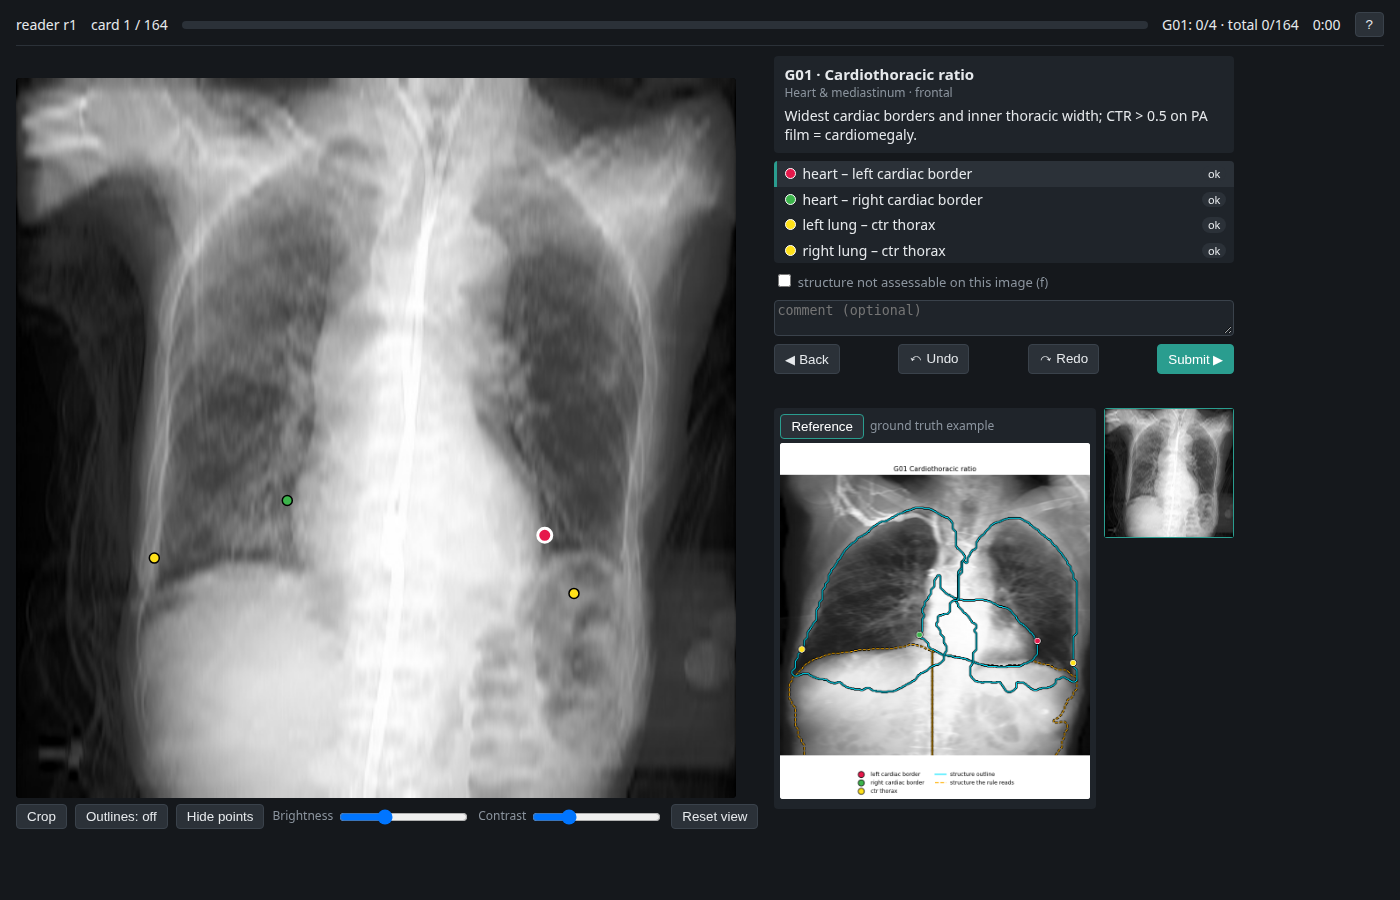
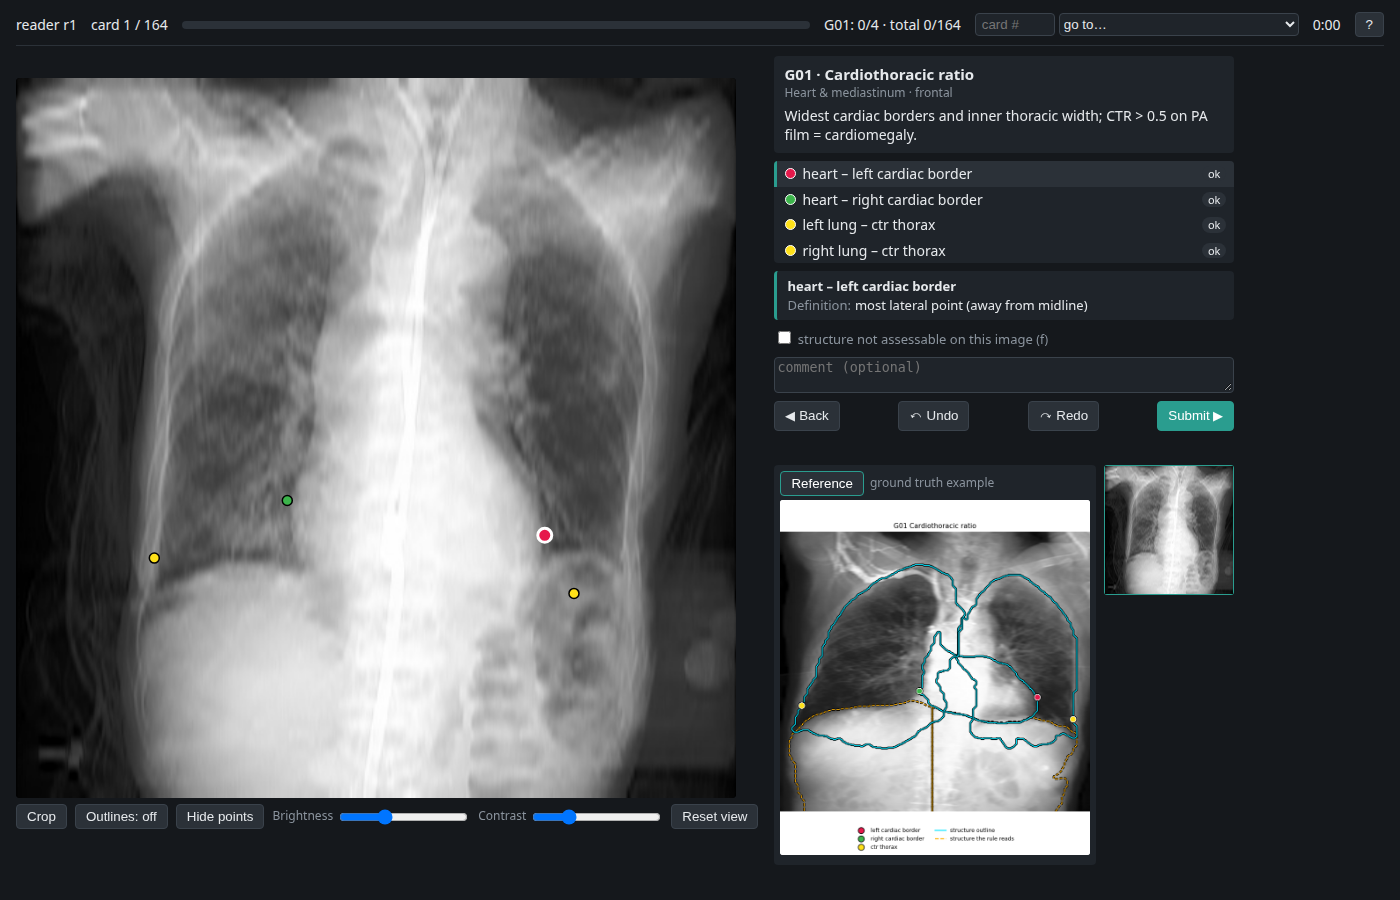
Jump to card / group, definition panel for the selected point
- Header: card-number box and a menu with the first card of every
  group and view (with progress) and the first scratch card.
- Definition panel under the point list: plain definition, v1 rule and
  reviewer note of the selected point; follows Tab/Space/click.
- /api/r/{rid}/cards: compact card index without image identifiers.

Changed region(s): [[0.5529, 0.3111, 0.8907, 0.9644], [0.5836, 0.0, 0.7986, 0.0311], [0.8293, 0.0, 0.9214, 0.0311]]

diff --git a/goldkp/web/app.js b/goldkp/web/app.js
@@ -41,6 +41,7 @@ async function enter(rid) {
   const s = await api(S.mode === "adjudicate" ? "/api/adj/session" : `/api/r/${rid}/session`);
   S.total = s.total;
   if (!s.total) { $("#banner").textContent = "Nothing to do."; return; }
+  if (S.mode !== "adjudicate") await buildJumpMenu(); else $("#jumpGroup").hidden = true;
   await load(Math.min(s.cursor, s.total - 1));
 }
 
@@ -209,6 +210,49 @@ function banner() {
 
 // ---------------- list ----------------
 const STATUS_TEXT = { ok: "ok", moved: "moved", added: "placed", not_visible: "not visible", missing: "missing" };
+// ---------------- jump ----------------
+async function buildJumpMenu() {
+  const d = await api(`/api/r/${S.rid}/cards`);
+  const sel = $("#jumpGroup");
+  sel.length = 1;
+  const seen = new Map();
+  for (const c of d.cards) {
+    const k = `${c.gid}|${c.view}`;
+    if (!seen.has(k)) seen.set(k, { first: c.pos, n: 0, done: 0, gid: c.gid, view: c.view });
+    const g = seen.get(k); g.n++; g.done += c.done;
+  }
+  for (const g of seen.values()) {
+    const o = document.createElement("option");
+    o.value = g.first;
+    o.textContent = `${g.gid} ${d.group_names[g.view][g.gid]} · ${g.view} (${g.done}/${g.n})`;
+    sel.appendChild(o);
+  }
+  const scratch = d.cards.find((c) => c.mode === "scratch");
+  if (scratch) {
+    const o = document.createElement("option");
+    o.value = scratch.pos; o.textContent = "first card without pre-fill (scratch)";
+    sel.appendChild(o);
+  }
+}
+
+function jumpTo(pos) {
+  if (Number.isInteger(pos) && pos >= 0 && pos < S.total) load(pos);
+  else $("#msg").textContent = `No card ${pos + 1}.`;
+}
+
+// ---------------- definition of the selected point ----------------
+function renderDef() {
+  const p = S.pts[S.sel];
+  const box = $("#defBox");
+  box.hidden = !p;
+  if (!p) return;
+  $("#defLabel").textContent = p.label;
+  const line = (el, k, v) => { el.innerHTML = ""; if (!v) return; const s = document.createElement("span"); s.className = "k"; s.textContent = k; el.append(s, v); };
+  line($("#defMethod"), "Definition:", p.method);
+  line($("#defRule"), "Rule (v1):", p.rule && p.rule !== p.method ? p.rule : "");
+  line($("#defNote"), "Reviewer note:", p.note);
+}
+
 function renderList() {
   const ol = $("#points");
   ol.innerHTML = "";
@@ -241,6 +285,7 @@ function renderList() {
   });
   const sel = ol.children[S.sel];
   if (sel) sel.scrollIntoView({ block: "nearest" });
+  renderDef();
   $("#btnSubmit").disabled = !complete();
 }
 
@@ -410,6 +455,7 @@ async function submit() {
         active_ms: S.activeMs, n_events: S.nEvents,
       });
     }
+    if (S.mode !== "adjudicate") buildJumpMenu();
     if (S.pos >= S.total - 1) { $("#banner").textContent = "All cards done — thank you."; updateProgress(); return; }
     await load(r.next);
   } catch (err) { $("#msg").textContent = `Not saved: ${err.message}`; }
@@ -467,6 +513,14 @@ function wire() {
   $("#refMain").onclick = () => setRef("main");
   $("#refSeries").onclick = () => setRef("series");
   $("#btnUndo").onclick = undo;
+  $("#jump").addEventListener("keydown", (e) => {
+    if (e.key === "Enter") { e.preventDefault(); jumpTo(parseInt($("#jump").value, 10) - 1); $("#jump").blur(); }
+  });
+  $("#jumpGroup").onchange = () => {
+    const v = $("#jumpGroup").value;
+    if (v !== "") jumpTo(parseInt(v, 10));
+    $("#jumpGroup").value = ""; $("#jumpGroup").blur();
+  };
   $("#btnRedo").onclick = redo;
   $("#flag").onchange = () => {
     const now = $("#flag").checked;

diff --git a/goldkp/web/index.html b/goldkp/web/index.html
@@ -18,6 +18,10 @@
     <span id="cardPos"></span>
     <div id="progress"><div id="progressBar"></div></div>
     <span id="groupProgress"></span>
+    <span id="jumpBox">
+      <input id="jump" type="number" min="1" placeholder="card #" title="Go to card number (Enter)">
+      <select id="jumpGroup" title="Go to the first card of a group"><option value="">go to…</option></select>
+    </span>
     <span id="timer">0:00</span>
     <button id="helpBtn" title="Keyboard shortcuts (?)">?</button>
   </header>
@@ -42,6 +46,12 @@
         <div id="groupDesc"></div>
       </div>
       <ol id="points"></ol>
+      <div id="defBox">
+        <div id="defLabel"></div>
+        <div id="defMethod"></div>
+        <div id="defRule"></div>
+        <div id="defNote"></div>
+      </div>
       <div id="adjLegend" hidden>
         <span class="mk a"></span> reader A <span class="mk b"></span> reader B <span class="mk m"></span> mean
       </div>

diff --git a/goldkp/web/app.css b/goldkp/web/app.css
@@ -58,3 +58,10 @@ header { display: flex; gap: 14px; align-items: center; padding-bottom: 8px; bor
 #maskLegend .chip.rule { border-style: dashed; }
 #nav { gap: 6px; }
 #help th { text-align: left; padding-top: 8px; color: var(--accent); }
+#jumpBox { display: flex; gap: 4px; }
+#jump { width: 80px; background: var(--panel); color: var(--fg); border: 1px solid #3a424b; border-radius: 4px; padding: 3px 6px; }
+#jumpGroup { max-width: 240px; background: var(--panel); color: var(--fg); border: 1px solid #3a424b; border-radius: 4px; }
+#defBox { background: var(--panel); border-radius: 4px; padding: 6px 10px; font-size: 13px; border-left: 3px solid var(--accent); }
+#defLabel { font-weight: 700; }
+#defBox .k { color: var(--muted); margin-right: 4px; }
+#defNote { color: #ffd166; }

diff --git a/e2e/test_e2e.py b/e2e/test_e2e.py
@@ -188,6 +188,33 @@ def test_keyboard_nudge_redo_flag_space(browser, study):
         assert not errors, errors
 
 
+def test_jump_and_definitions(browser, study):
+    with server(study) as url:
+        page, errors = open_reader(browser, url)
+        page.fill("#jump", "7")
+        page.press("#jump", "Enter")
+        wait_card(page, 6)
+        assert page.locator("#cardPos").inner_text().startswith("card 7 /")
+        # group menu: jump to the first vertebra card
+        label = next(o for o in page.locator("#jumpGroup option").all_inner_texts() if o.startswith("G19"))
+        page.select_option("#jumpGroup", label=label)
+        page.wait_for_function("S.card && S.card.gid === 'G19'")
+        assert page.evaluate("S.card.batch") != ""
+        # definition panel follows the selection
+        first = page.locator("#defLabel").inner_text()
+        assert first == page.evaluate("S.pts[S.sel].label")
+        assert page.locator("#defMethod").inner_text().startswith("Definition:")
+        page.keyboard.press("Tab")
+        assert page.locator("#defLabel").inner_text() == page.evaluate("S.pts[S.sel].label") != first
+        # typing a card number must not trigger shortcuts
+        page.fill("#jump", "3")
+        assert page.evaluate("S.pts.every(p => p.status !== 'not_visible')")
+        page.select_option("#jumpGroup", label=next(o for o in page.locator("#jumpGroup option").all_inner_texts()
+                                                     if o.startswith("first card without")))
+        page.wait_for_function("S.card && S.card.mode === 'scratch'")
+        assert not errors, errors
+
+
 def test_missing_point_and_scratch_placement(browser, study):
     with server(study) as url:
         total = get(f"{url}/api/r/r1/session")["total"]

diff --git a/goldkp/server.py b/goldkp/server.py
@@ -139,6 +139,18 @@ def create_app(data: Path, images_root: Path, readers: list[str], mode: str = "r
         return {"total": len(cards), "done": st.done, "cursor": first_open, "per_group": per_group,
                 "cards_sha": sha, "prefill_version": prefill_version}
 
+    @app.get("/api/r/{rid}/cards")
+    def card_index(rid: str):
+        """Compact list of this reader's cards for the jump menu (no image identifiers)."""
+        st = store_of(rid)
+        out = []
+        for pos, i in enumerate(orders[rid]):
+            c = cards[i]
+            out.append({"pos": pos, "gid": c["gid"], "view": c["view"], "batch": c["batch"], "mode": c["mode"],
+                        "done": st.latest(c["id"]) is not None})
+        names = {v: {g: meta["name"] for g, meta in vocab["groups"][v].items()} for v in vocab["groups"]}
+        return {"cards": out, "group_names": names}
+
     @app.get("/api/r/{rid}/card/{pos}")
     def card(rid: str, pos: int):
         st = store_of(rid)
@@ -153,7 +165,8 @@ def create_app(data: Path, images_root: Path, readers: list[str], mode: str = "r
             pre = [p[0], p[1]] if p and p[2] > 0 else None
             d = defs.get(f"{view}|{key}", {})
             entry = {"key": key, "label": label, "colour": refs["colours"].get(f"{view}|{key}", "#ffffff"),
-                     "rule": d.get("rule", ""), "method": d.get("method", ""), "prefill": pre,
+                     "rule": d.get("rule", ""), "method": d.get("method", ""), "note": d.get("comment", ""),
+                     "prefill": pre,
                      "xy": pre, "status": "ok" if pre else "missing", "unsure": False}
             if mine:
                 rec = next((q for q in mine["points"] if q["key"] == key), None)

diff --git a/tests/test_server.py b/tests/test_server.py
@@ -95,3 +95,13 @@ def test_main_refuses_public_host(monkeypatch):
     monkeypatch.setattr(sys, "argv", ["x", "--data", ".", "--images", ".", "--host", "0.0.0.0"])
     with pytest.raises(SystemExit):
         server.main()
+
+
+def test_card_index_for_jumping(study, client_factory):
+    c = client_factory(*study)
+    d = c.get("/api/r/r1/cards").json()
+    assert [x["pos"] for x in d["cards"]] == list(range(7))
+    assert set(d["cards"][0]) == {"pos", "gid", "view", "batch", "mode", "done"}     # no image identifiers
+    assert d["group_names"]["frontal"]["G19"] == "Vertebrae"
+    card = c.get("/api/r/r1/card/0").json()
+    assert all("rule" in p and "method" in p and "note" in p for p in card["points"])
